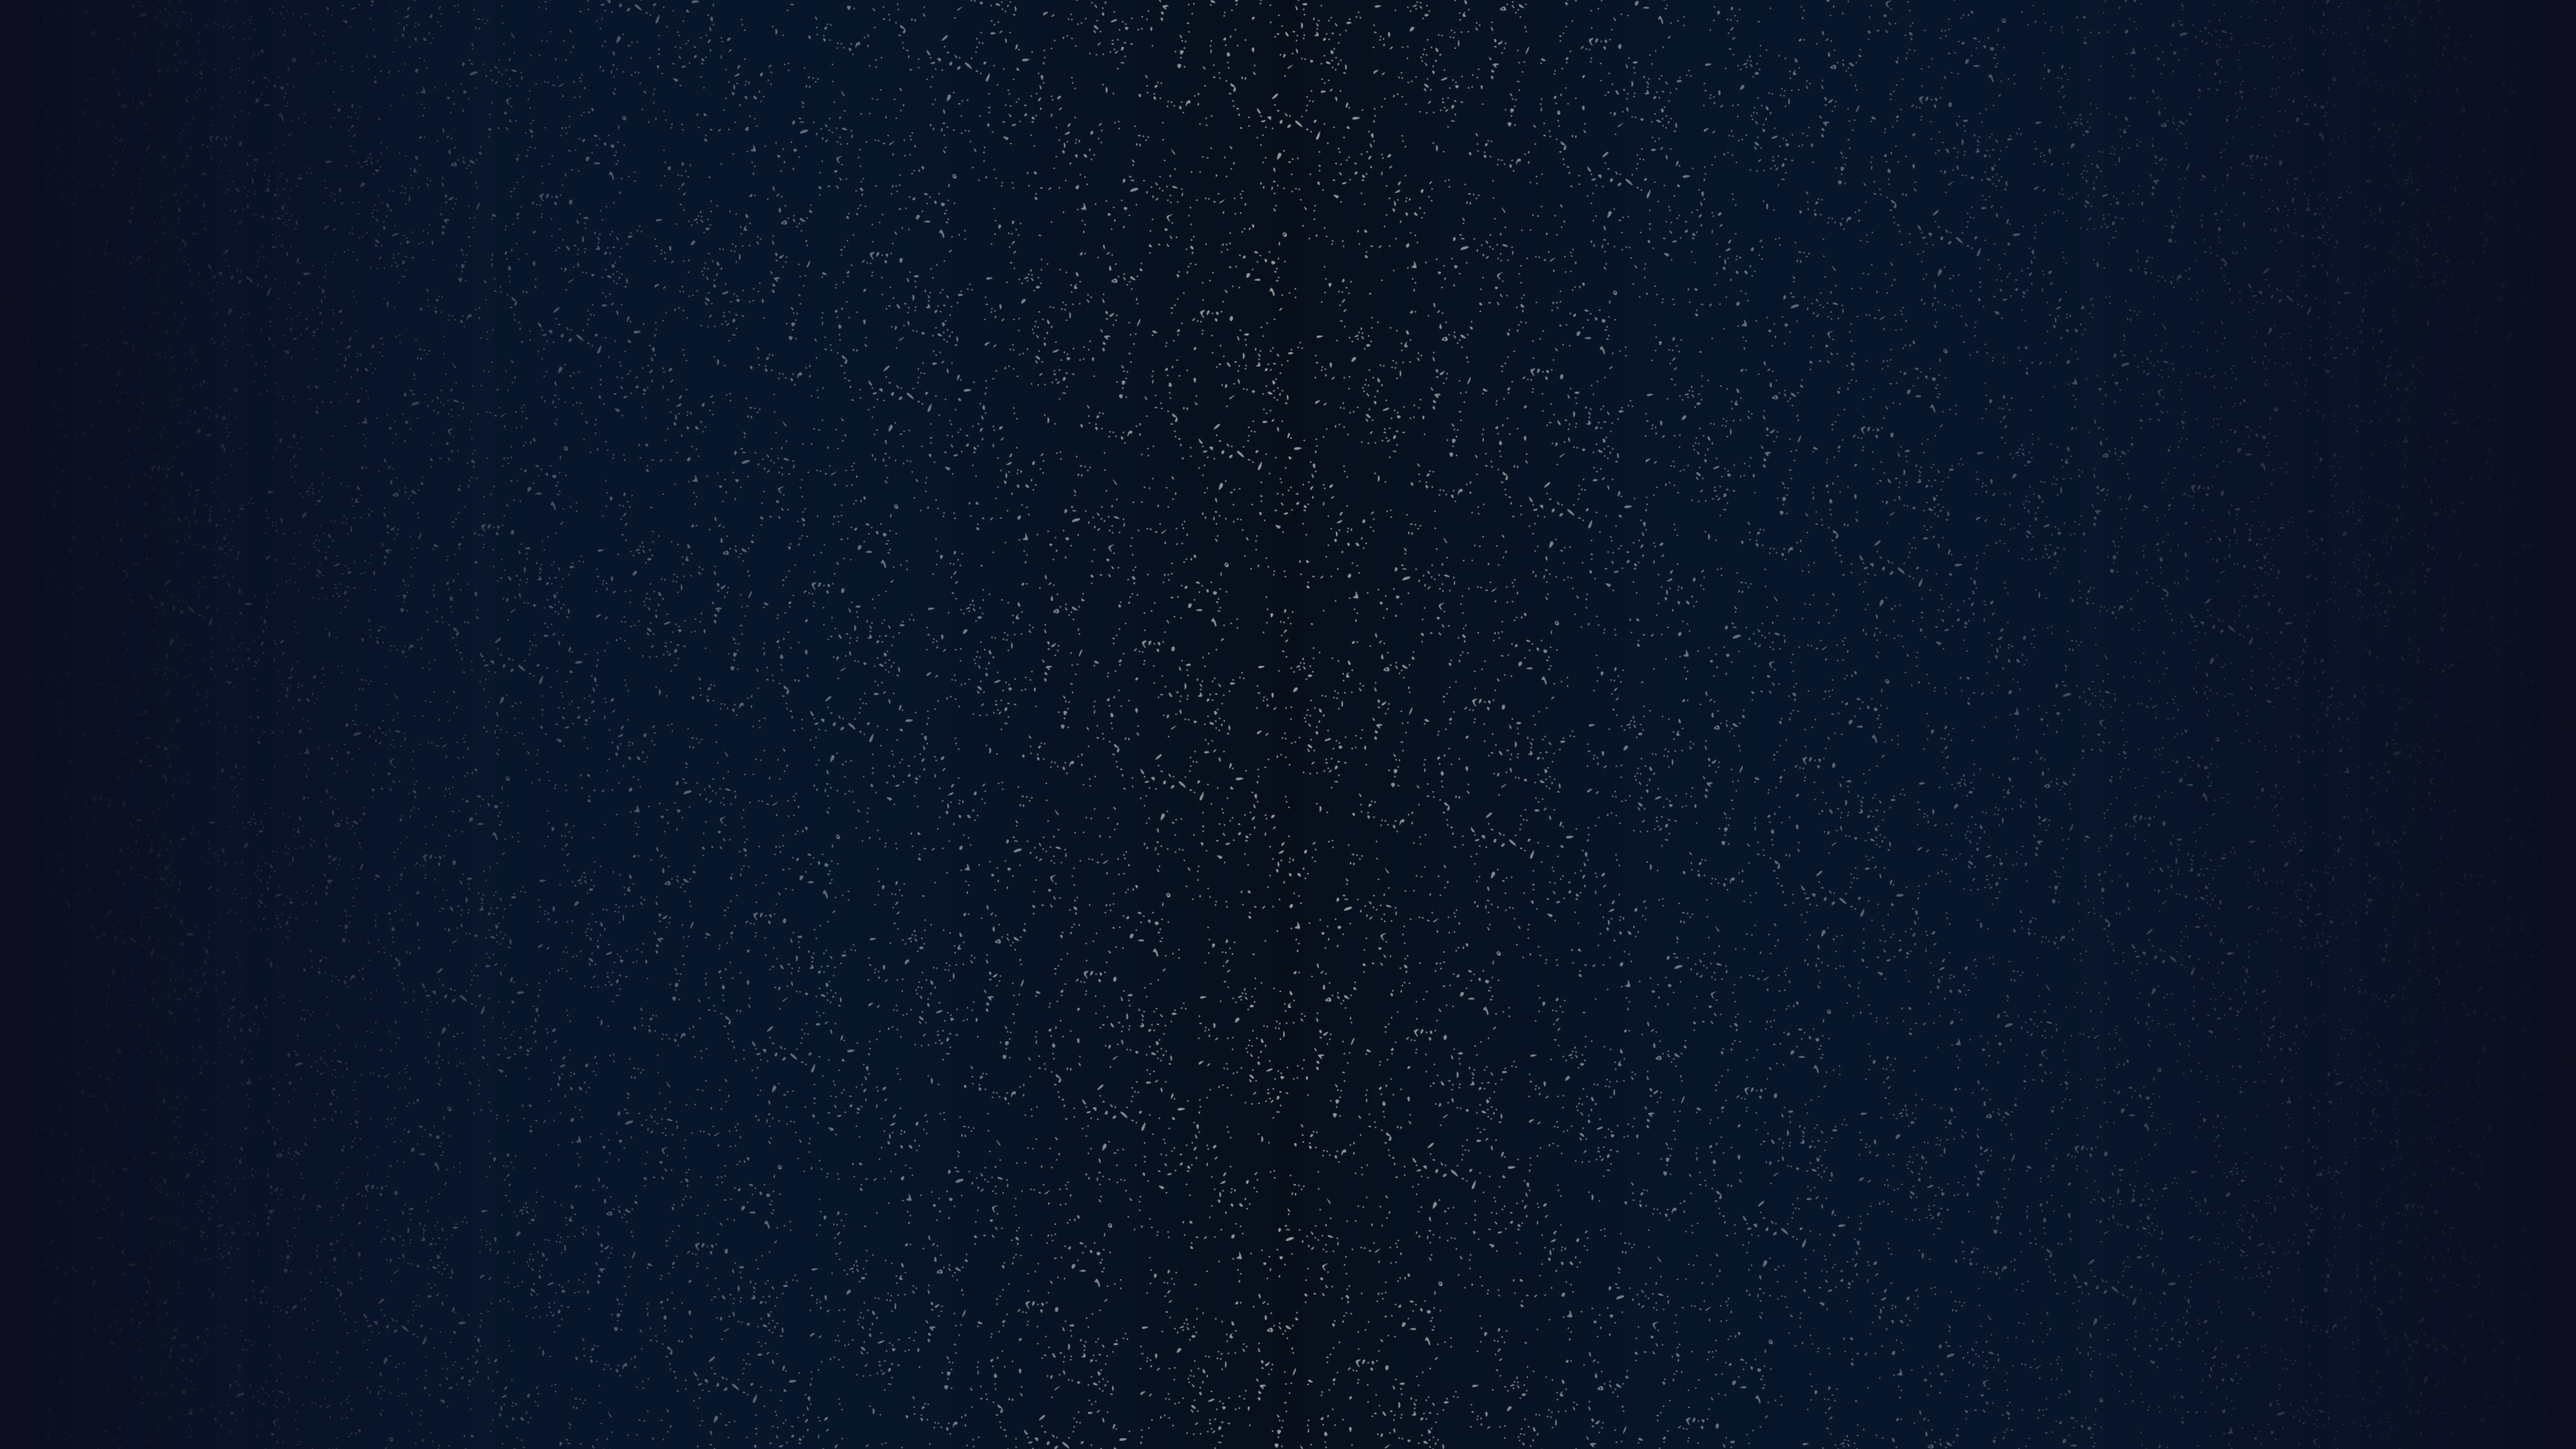
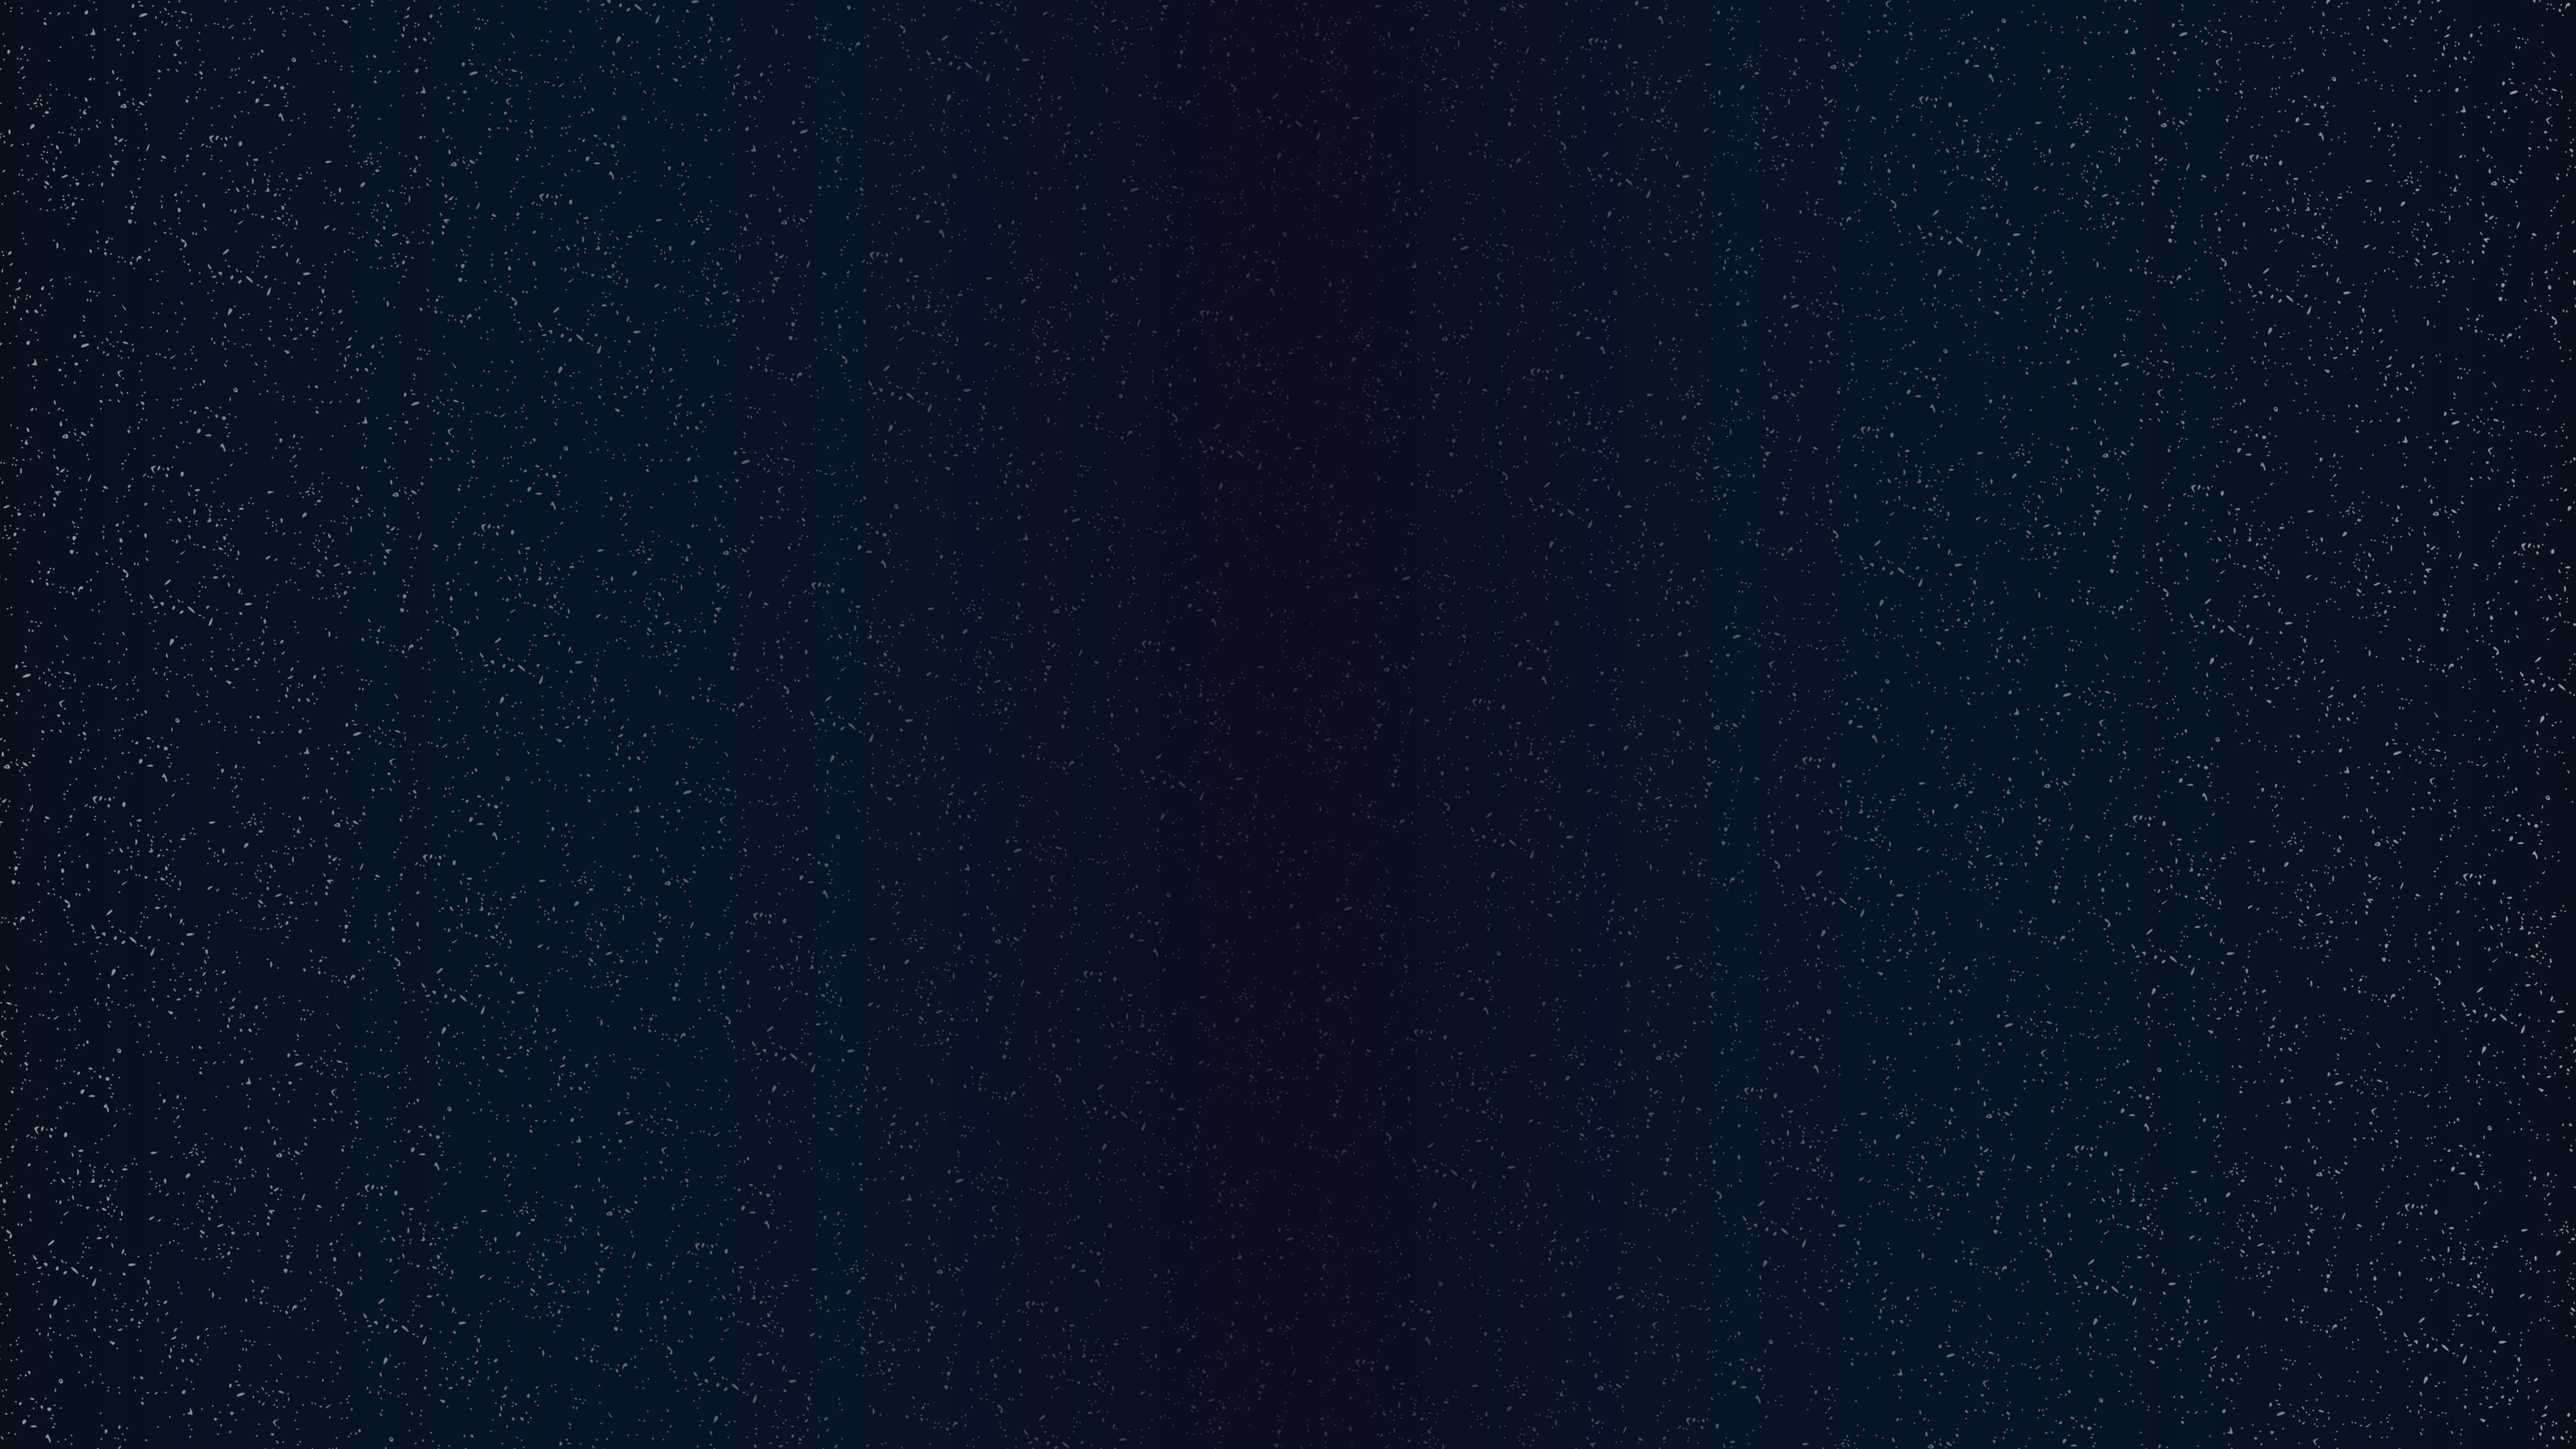
Website complete hosted V4.3 BG change 08/04/2026

diff --git a/style.css b/style.css
@@ -500,7 +500,7 @@ p{
     margin: 0;
 }
 .whyInfo{
-    width: 200px;
+    width: 180px;
     display: flex;
     flex-direction: column;
     justify-content: center;
